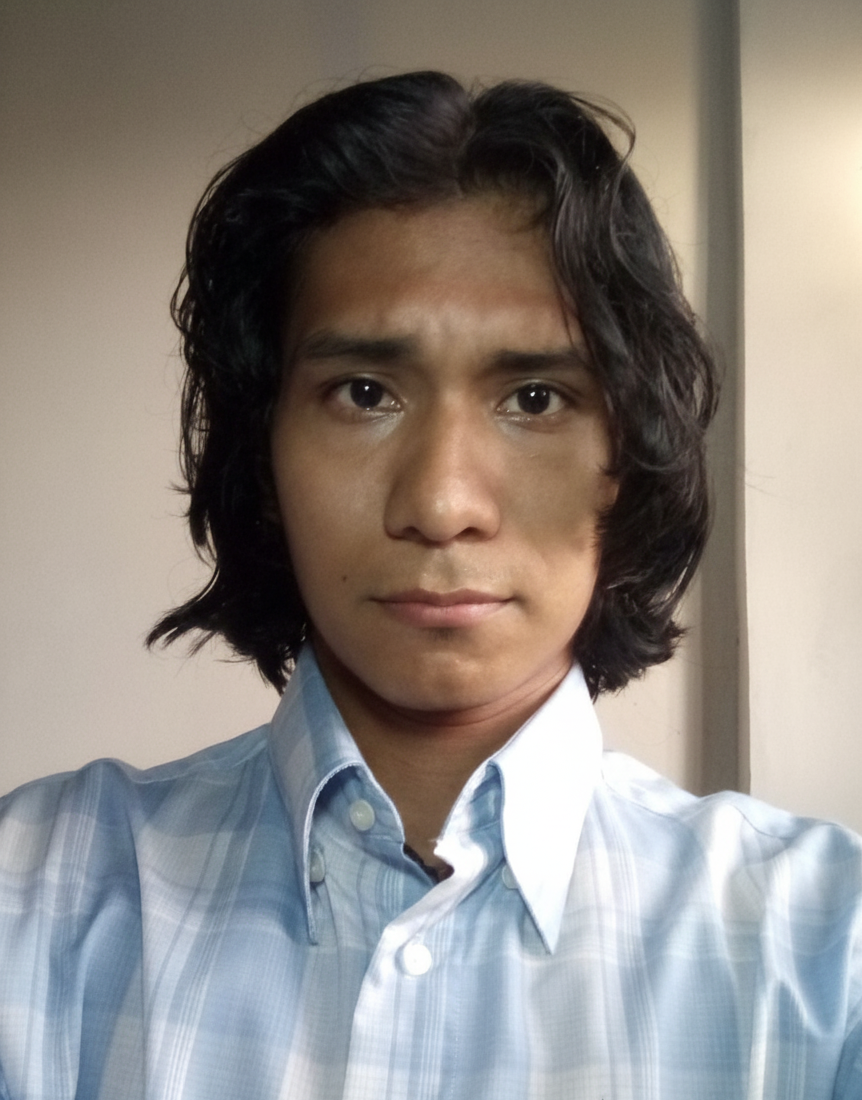
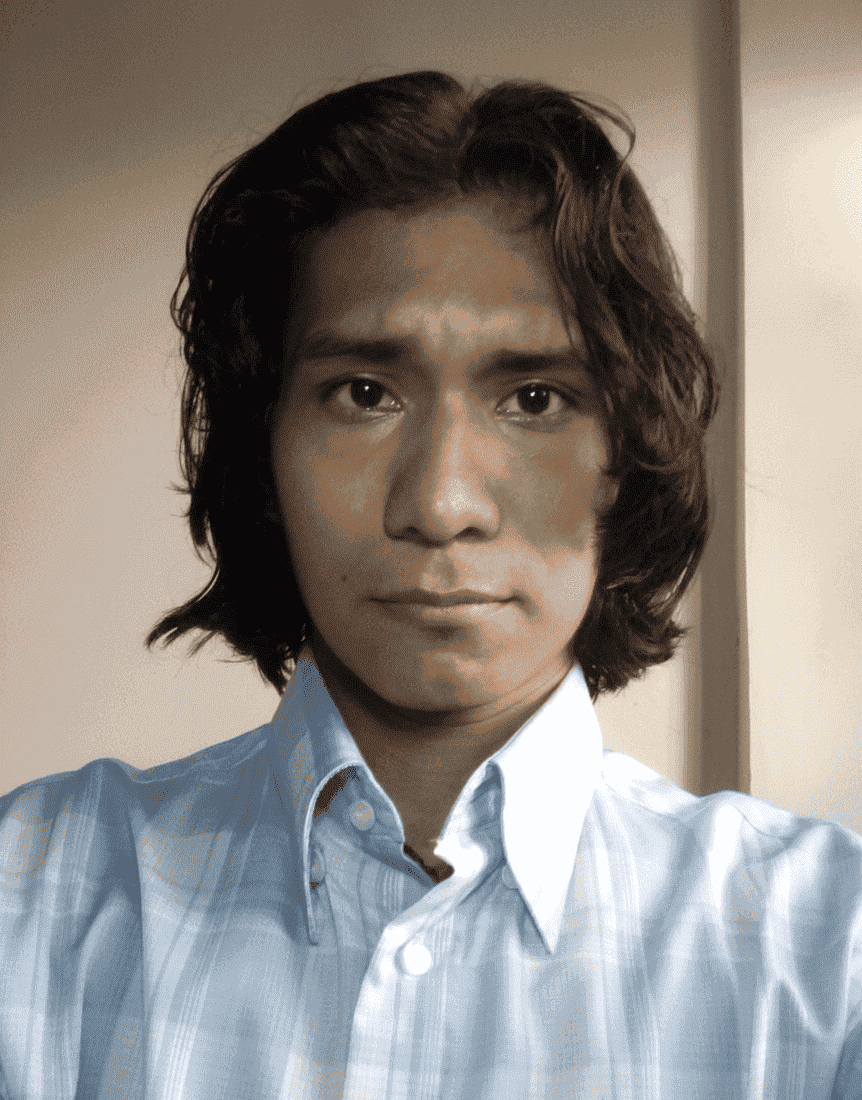
Se optimizo las imagenes

diff --git a/index.html b/index.html
@@ -48,7 +48,7 @@
 			</div>
 		</section>
 
-		<section class="container-info-cv">
+		<section class="container-info-cv section-container">
 			<div class="container-content-cv">
 				<h2 class="title-content">Formación Académica</h2>
 
